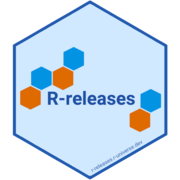
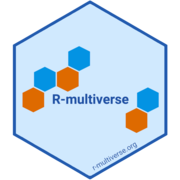
Deploying to gh-pages from @ r-multiverse/multitools@2e46e6c16b31bbbc39fb7d694dc6b85ea92b6163 🚀

Changed region(s): [[0.1111, 0.25, 0.9167, 0.75], [0.5, 0.7778, 0.8056, 0.9722]]

diff --git a/index.html b/index.html
@@ -73,39 +73,39 @@
 <div class="row">
   <main id="main" class="col-md-9"><div class="section level1">
 <div class="page-header">
-<img src="logo.png" class="logo" alt=""><h1 id="releases-tools-for-r-releases-">releases: tools for R-releases <a class="anchor" aria-label="anchor" href="#releases-tools-for-r-releases-"></a>
+<img src="logo.png" class="logo" alt=""><h1 id="multitools-tools-for-contributing-packages-to-r-multiverse-">multitools: tools for contributing packages to R-multiverse <a class="anchor" aria-label="anchor" href="#multitools-tools-for-contributing-packages-to-r-multiverse-"></a>
 </h1>
 </div>
 <!-- badges: start -->
 
-<p><a href="https://github.com/r-releases/help" class="external-link">R-releases</a> is a community-curated, maintainer-driven repository of R package releases based on <a href="https://r-universe.dev" class="external-link">R-universe</a>. The <code>releases</code> package has tools for maintainers of packages in <a href="https://github.com/r-releases/help" class="external-link">R-releases</a>.</p>
+<p><a href="https://r-multiverse.org" class="external-link">R-multiverse</a> is a community-curated, maintainer-driven repository of R package releases based on <a href="https://r-universe.dev" class="external-link">R-universe</a>. The <code>multitools</code> package has tools for maintainers of packages in <a href="https://github.com/r-multiverse/help" class="external-link">R-multiverse</a>.</p>
 </div>
 <div class="section level1">
 <h1 id="documentation">Documentation<a class="anchor" aria-label="anchor" href="#documentation"></a>
 </h1>
-<p>Please see <a href="https://r-releases.github.io/releases" class="external-link uri">https://r-releases.github.io/releases</a> for documentation, including a function reference.</p>
+<p>Please see <a href="https://r-multiverse.org/multitools" class="uri">https://r-multiverse.org/multitools</a> for documentation, including a function reference.</p>
 </div>
 <div class="section level1">
 <h1 id="code-of-conduct">Code of Conduct<a class="anchor" aria-label="anchor" href="#code-of-conduct"></a>
 </h1>
-<p>Please note that the <code>releases</code> project is released with a <a href="https://r-releases.github.io/conduct.html" class="external-link">Contributor Code of Conduct</a>. By contributing to this project, you agree to abide by its terms.</p>
+<p>Please note that the <code>multitools</code> project is released with a <a href="https://r-multiverse.org/conduct.html" class="external-link">Contributor Code of Conduct</a>. By contributing to this project, you agree to abide by its terms.</p>
 </div>
 <div class="section level1">
 <h1 id="help">Help<a class="anchor" aria-label="anchor" href="#help"></a>
 </h1>
-<p>Please post bug reports to <a href="https://github.com/r-releases/help/issues" class="external-link uri">https://github.com/r-releases/help/issues</a> and general questions to <a href="https://github.com/r-releases/help/discussions" class="external-link uri">https://github.com/r-releases/help/discussions</a>.</p>
+<p>Please post bug reports to <a href="https://github.com/r-multiverse/help/issues" class="external-link uri">https://github.com/r-multiverse/help/issues</a> and general questions to <a href="https://github.com/r-multiverse/help/discussions" class="external-link uri">https://github.com/r-multiverse/help/discussions</a>.</p>
 </div>
 <div class="section level1">
 <h1 id="installation">Installation<a class="anchor" aria-label="anchor" href="#installation"></a>
 </h1>
 <p>For the development version:</p>
 <div class="sourceCode" id="cb1"><pre class="downlit sourceCode r">
-<code class="sourceCode R"><span><span class="fu">remotes</span><span class="fu">::</span><span class="fu"><a href="https://remotes.r-lib.org/reference/install_github.html" class="external-link">install_github</a></span><span class="op">(</span><span class="st">"r-releases/releases"</span><span class="op">)</span></span></code></pre></div>
+<code class="sourceCode R"><span><span class="fu">remotes</span><span class="fu">::</span><span class="fu"><a href="https://remotes.r-lib.org/reference/install_github.html" class="external-link">install_github</a></span><span class="op">(</span><span class="st">"r-multiverse/multitools"</span><span class="op">)</span></span></code></pre></div>
 <p>For the latest release:</p>
 <div class="sourceCode" id="cb2"><pre class="downlit sourceCode r">
 <code class="sourceCode R"><span><span class="fu"><a href="https://rdrr.io/r/utils/install.packages.html" class="external-link">install.packages</a></span><span class="op">(</span></span>
-<span>  <span class="st">"releases"</span>,</span>
-<span>  repos <span class="op">=</span> <span class="fu"><a href="https://rdrr.io/r/base/c.html" class="external-link">c</a></span><span class="op">(</span><span class="st">"https://r-releases.r-universe.dev"</span>, <span class="fu"><a href="https://rdrr.io/r/base/options.html" class="external-link">getOption</a></span><span class="op">(</span><span class="st">"repos"</span><span class="op">)</span><span class="op">)</span></span>
+<span>  <span class="st">"multitools"</span>,</span>
+<span>  repos <span class="op">=</span> <span class="fu"><a href="https://rdrr.io/r/base/c.html" class="external-link">c</a></span><span class="op">(</span><span class="st">"https://r-multiverse.r-universe.dev"</span>, <span class="fu"><a href="https://rdrr.io/r/base/options.html" class="external-link">getOption</a></span><span class="op">(</span><span class="st">"repos"</span><span class="op">)</span><span class="op">)</span></span>
 <span><span class="op">)</span></span></code></pre></div>
 </div>
 <div class="section level1">
@@ -120,26 +120,25 @@
 <span><span class="co">#&gt; 1 pkg.a   1.0.0           2.0.0           1f9928593251410322823fefea8c… 8e7f9fe32c4…</span></span>
 <span><span class="co">#&gt; 2 pkg.b   3.0.0           3.0.0           7f608bde8f0e308aa8866d737dde… e59165f73b7…</span></span></code></pre></div>
 <p>Package <code>pkg.a</code> was flagged because the current version is lower than the highest version ever released. Package <code>pkg.b</code> was flagged because there are two different releases under version 3.0.0.</p>
-<p>To fix the version number of an R-releases package that you maintain, create a new GitHub/GitLab release whose version number in the <code>DESCRIPTION</code> file is higher than the one in the <code>version_highest</code> column in the output of <code>check_releases()</code>.</p>
+<p>To fix the version number of an R-multiverse package that you maintain, create a new GitHub/GitLab release whose version number in the <code>DESCRIPTION</code> file is higher than the one in the <code>version_highest</code> column in the output of <code><a href="reference/check_versions.html">check_versions()</a></code>.</p>
 </div>
 <div class="section level1">
 <h1 id="citation">Citation<a class="anchor" aria-label="anchor" href="#citation"></a>
 </h1>
-<div class="sourceCode" id="cb4"><pre class="sourceCode r"><code class="sourceCode r"><span id="cb4-1"><a href="#cb4-1" tabindex="-1"></a>o cite package ‘releases’ <span class="cf">in</span> publications use<span class="sc">:</span></span>
+<div class="sourceCode" id="cb4"><pre class="sourceCode r"><code class="sourceCode r"><span id="cb4-1"><a href="#cb4-1" tabindex="-1"></a>o cite package ‘multitools’ <span class="cf">in</span> publications use<span class="sc">:</span></span>
 <span id="cb4-2"><a href="#cb4-2" tabindex="-1"></a></span>
-<span id="cb4-3"><a href="#cb4-3" tabindex="-1"></a>  Landau WM, Gao C, Revilla Sancho <span class="fu">L</span> (<span class="dv">2024</span>). _releases<span class="sc">:</span> Tools <span class="cf">for</span> Package</span>
-<span id="cb4-4"><a href="#cb4-4" tabindex="-1"></a>  Releases_. R package version <span class="dv">0</span>.<span class="fl">0.1</span>,</span>
-<span id="cb4-5"><a href="#cb4-5" tabindex="-1"></a>  https<span class="sc">:</span><span class="er">//</span>github.com<span class="sc">/</span>r<span class="sc">-</span>releases<span class="sc">/</span>releases,</span>
-<span id="cb4-6"><a href="#cb4-6" tabindex="-1"></a>  <span class="sc">&lt;</span>https<span class="sc">:</span><span class="er">//</span>r<span class="sc">-</span>releases.github.io<span class="sc">/</span>releases<span class="sc">/</span><span class="er">&gt;</span>.</span>
-<span id="cb4-7"><a href="#cb4-7" tabindex="-1"></a></span>
-<span id="cb4-8"><a href="#cb4-8" tabindex="-1"></a>A BibTeX entry <span class="cf">for</span> LaTeX users is</span>
-<span id="cb4-9"><a href="#cb4-9" tabindex="-1"></a></span>
-<span id="cb4-10"><a href="#cb4-10" tabindex="-1"></a>  <span class="sc">@</span>Manual{,</span>
-<span id="cb4-11"><a href="#cb4-11" tabindex="-1"></a>    title <span class="ot">=</span> {releases<span class="sc">:</span> Tools <span class="cf">for</span> Package Releases},</span>
-<span id="cb4-12"><a href="#cb4-12" tabindex="-1"></a>    author <span class="ot">=</span> {William Michael Landau and Charlie Gao and Lluís {Revilla Sancho}},</span>
-<span id="cb4-13"><a href="#cb4-13" tabindex="-1"></a>    note <span class="ot">=</span> {R package version <span class="dv">0</span>.<span class="fl">0.1</span>, https<span class="sc">:</span><span class="er">//</span>github.com<span class="sc">/</span>r<span class="sc">-</span>releases<span class="sc">/</span>releases},</span>
-<span id="cb4-14"><a href="#cb4-14" tabindex="-1"></a>    url <span class="ot">=</span> {https<span class="sc">:</span><span class="er">//</span>r<span class="sc">-</span>releases.github.io<span class="sc">/</span>releases<span class="sc">/</span>},</span>
-<span id="cb4-15"><a href="#cb4-15" tabindex="-1"></a>  }</span></code></pre></div>
+<span id="cb4-3"><a href="#cb4-3" tabindex="-1"></a>  Landau WM, Gao C, Revilla Sancho <span class="fu">L</span> (<span class="dv">2024</span>). _multitools<span class="sc">:</span> Tools <span class="cf">for</span> Contributing Packages to R<span class="sc">-</span>multiverse_. R package version <span class="dv">0</span>.<span class="fl">1.0</span>,</span>
+<span id="cb4-4"><a href="#cb4-4" tabindex="-1"></a>  https<span class="sc">:</span><span class="er">//</span>github.com<span class="sc">/</span>r<span class="sc">-</span>multiverse<span class="sc">/</span>multitools,</span>
+<span id="cb4-5"><a href="#cb4-5" tabindex="-1"></a>  <span class="sc">&lt;</span>https<span class="sc">:</span><span class="er">//</span>r<span class="sc">-</span>multiverse.org<span class="sc">/</span>multitools<span class="sc">/</span><span class="er">&gt;</span>.</span>
+<span id="cb4-6"><a href="#cb4-6" tabindex="-1"></a></span>
+<span id="cb4-7"><a href="#cb4-7" tabindex="-1"></a>A BibTeX entry <span class="cf">for</span> LaTeX users is</span>
+<span id="cb4-8"><a href="#cb4-8" tabindex="-1"></a></span>
+<span id="cb4-9"><a href="#cb4-9" tabindex="-1"></a>  <span class="sc">@</span>Manual{,</span>
+<span id="cb4-10"><a href="#cb4-10" tabindex="-1"></a>    title <span class="ot">=</span> {multitools<span class="sc">:</span> Tools <span class="cf">for</span> Contributing Packages to R<span class="sc">-</span>multiverse},</span>
+<span id="cb4-11"><a href="#cb4-11" tabindex="-1"></a>    author <span class="ot">=</span> {William Michael Landau and Charlie Gao and Lluís {Revilla Sancho}},</span>
+<span id="cb4-12"><a href="#cb4-12" tabindex="-1"></a>    note <span class="ot">=</span> {R package version <span class="dv">0</span>.<span class="fl">0.1</span>, https<span class="sc">:</span><span class="er">//</span>github.com<span class="sc">/</span>r<span class="sc">-</span>multiverse<span class="sc">/</span>multitools},</span>
+<span id="cb4-13"><a href="#cb4-13" tabindex="-1"></a>    url <span class="ot">=</span> {https<span class="sc">:</span><span class="er">//</span>r<span class="sc">-</span>multiverse.org<span class="sc">/</span>multitools<span class="sc">/</span>},</span>
+<span id="cb4-14"><a href="#cb4-14" tabindex="-1"></a>  }</span></code></pre></div>
 </div>
 
   </main><aside class="col-md-3"><div class="links">
@@ -187,10 +186,10 @@
 <h2 data-toc-skip>Dev status</h2>
 <ul class="list-unstyled">
 <li><a href="https://www.repostatus.org/#active" class="external-link"><img src="https://www.repostatus.org/badges/latest/active.svg" alt="status"></a></li>
-<li><a href="https://github.com/r-releases/releases/actions?query=workflow%3Acheck" class="external-link"><img src="https://github.com/r-releases/releases/actions/workflows/check.yaml/badge.svg" alt="check"></a></li>
-<li><a href="https://app.codecov.io/gh/r-releases/releases" class="external-link"><img src="https://codecov.io/gh/r-releases/releases/branch/main/graph/badge.svg?token=3T5DlLwUVl" alt="codecov"></a></li>
-<li><a href="https://github.com/r-releases/releases/actions?query=workflow%3Alint" class="external-link"><img src="https://github.com/r-releases/releases/actions/workflows/lint.yaml/badge.svg" alt="lint"></a></li>
-<li><a href="https://github.com/r-releases/releases/actions?query=workflow%3Apkgdown" class="external-link"><img src="https://github.com/r-releases/releases/actions/workflows/pkgdown.yaml/badge.svg" alt="pkgdown"></a></li>
+<li><a href="https://github.com/r-multiverse/multitools/actions?query=workflow%3Acheck" class="external-link"><img src="https://github.com/r-multiverse/multitools/actions/workflows/check.yaml/badge.svg" alt="check"></a></li>
+<li><a href="https://app.codecov.io/gh/r-multiverse/multitools" class="external-link"><img src="https://codecov.io/gh/r-multiverse/multitools/branch/main/graph/badge.svg?token=3T5DlLwUVl" alt="codecov"></a></li>
+<li><a href="https://github.com/r-multiverse/multitools/actions?query=workflow%3Alint" class="external-link"><img src="https://github.com/r-multiverse/multitools/actions/workflows/lint.yaml/badge.svg" alt="lint"></a></li>
+<li><a href="https://github.com/r-multiverse/multitools/actions?query=workflow%3Apkgdown" class="external-link"><img src="https://github.com/r-multiverse/multitools/actions/workflows/pkgdown.yaml/badge.svg" alt="pkgdown"></a></li>
 </ul>
 </div>
 

diff --git a/reference/check_versions.html b/reference/check_versions.html
@@ -1,5 +1,5 @@
 <!DOCTYPE html>
-<!-- Generated by pkgdown: do not edit by hand --><html lang="en"><head><meta http-equiv="Content-Type" content="text/html; charset=UTF-8"><meta charset="utf-8"><meta http-equiv="X-UA-Compatible" content="IE=edge"><meta name="viewport" content="width=device-width, initial-scale=1, shrink-to-fit=no"><meta name="description" content="Check the etiquette of versions of packages in R-releases."><title>Check package version etiquette. — check_versions • multitools</title><!-- favicons --><link rel="icon" type="image/png" sizes="16x16" href="../favicon-16x16.png"><link rel="icon" type="image/png" sizes="32x32" href="../favicon-32x32.png"><link rel="apple-touch-icon" type="image/png" sizes="180x180" href="../apple-touch-icon.png"><link rel="apple-touch-icon" type="image/png" sizes="120x120" href="../apple-touch-icon-120x120.png"><link rel="apple-touch-icon" type="image/png" sizes="76x76" href="../apple-touch-icon-76x76.png"><link rel="apple-touch-icon" type="image/png" sizes="60x60" href="../apple-touch-icon-60x60.png"><script src="../deps/jquery-3.6.0/jquery-3.6.0.min.js"></script><meta name="viewport" content="width=device-width, initial-scale=1, shrink-to-fit=no"><link href="../deps/bootstrap-5.3.1/bootstrap.min.css" rel="stylesheet"><script src="../deps/bootstrap-5.3.1/bootstrap.bundle.min.js"></script><!-- Font Awesome icons --><link rel="stylesheet" href="https://cdnjs.cloudflare.com/ajax/libs/font-awesome/5.12.1/css/all.min.css" integrity="sha256-mmgLkCYLUQbXn0B1SRqzHar6dCnv9oZFPEC1g1cwlkk=" crossorigin="anonymous"><link rel="stylesheet" href="https://cdnjs.cloudflare.com/ajax/libs/font-awesome/5.12.1/css/v4-shims.min.css" integrity="sha256-wZjR52fzng1pJHwx4aV2AO3yyTOXrcDW7jBpJtTwVxw=" crossorigin="anonymous"><!-- bootstrap-toc --><script src="https://cdn.jsdelivr.net/gh/afeld/bootstrap-toc@v1.0.1/dist/bootstrap-toc.min.js" integrity="sha256-4veVQbu7//Lk5TSmc7YV48MxtMy98e26cf5MrgZYnwo=" crossorigin="anonymous"></script><!-- headroom.js --><script src="https://cdnjs.cloudflare.com/ajax/libs/headroom/0.11.0/headroom.min.js" integrity="sha256-AsUX4SJE1+yuDu5+mAVzJbuYNPHj/WroHuZ8Ir/CkE0=" crossorigin="anonymous"></script><script src="https://cdnjs.cloudflare.com/ajax/libs/headroom/0.11.0/jQuery.headroom.min.js" integrity="sha256-ZX/yNShbjqsohH1k95liqY9Gd8uOiE1S4vZc+9KQ1K4=" crossorigin="anonymous"></script><!-- clipboard.js --><script src="https://cdnjs.cloudflare.com/ajax/libs/clipboard.js/2.0.6/clipboard.min.js" integrity="sha256-inc5kl9MA1hkeYUt+EC3BhlIgyp/2jDIyBLS6k3UxPI=" crossorigin="anonymous"></script><!-- search --><script src="https://cdnjs.cloudflare.com/ajax/libs/fuse.js/6.4.6/fuse.js" integrity="sha512-zv6Ywkjyktsohkbp9bb45V6tEMoWhzFzXis+LrMehmJZZSys19Yxf1dopHx7WzIKxr5tK2dVcYmaCk2uqdjF4A==" crossorigin="anonymous"></script><script src="https://cdnjs.cloudflare.com/ajax/libs/autocomplete.js/0.38.0/autocomplete.jquery.min.js" integrity="sha512-GU9ayf+66Xx2TmpxqJpliWbT5PiGYxpaG8rfnBEk1LL8l1KGkRShhngwdXK1UgqhAzWpZHSiYPc09/NwDQIGyg==" crossorigin="anonymous"></script><script src="https://cdnjs.cloudflare.com/ajax/libs/mark.js/8.11.1/mark.min.js" integrity="sha512-5CYOlHXGh6QpOFA/TeTylKLWfB3ftPsde7AnmhuitiTX4K5SqCLBeKro6sPS8ilsz1Q4NRx3v8Ko2IBiszzdww==" crossorigin="anonymous"></script><!-- pkgdown --><script src="../pkgdown.js"></script><meta property="og:title" content="Check package version etiquette. — check_versions"><meta property="og:description" content="Check the etiquette of versions of packages in R-releases."><meta property="og:image" content="https://r-multiverse.org/multitools/logo.png"><!-- mathjax --><script src="https://cdnjs.cloudflare.com/ajax/libs/mathjax/2.7.5/MathJax.js" integrity="sha256-nvJJv9wWKEm88qvoQl9ekL2J+k/RWIsaSScxxlsrv8k=" crossorigin="anonymous"></script><script src="https://cdnjs.cloudflare.com/ajax/libs/mathjax/2.7.5/config/TeX-AMS-MML_HTMLorMML.js" integrity="sha256-84DKXVJXs0/F8OTMzX4UR909+jtl4G7SPypPavF+GfA=" crossorigin="anonymous"></script><!--[if lt IE 9]>
+<!-- Generated by pkgdown: do not edit by hand --><html lang="en"><head><meta http-equiv="Content-Type" content="text/html; charset=UTF-8"><meta charset="utf-8"><meta http-equiv="X-UA-Compatible" content="IE=edge"><meta name="viewport" content="width=device-width, initial-scale=1, shrink-to-fit=no"><meta name="description" content="Check the etiquette of versions of packages in R-multiverse."><title>Check package version etiquette. — check_versions • multitools</title><!-- favicons --><link rel="icon" type="image/png" sizes="16x16" href="../favicon-16x16.png"><link rel="icon" type="image/png" sizes="32x32" href="../favicon-32x32.png"><link rel="apple-touch-icon" type="image/png" sizes="180x180" href="../apple-touch-icon.png"><link rel="apple-touch-icon" type="image/png" sizes="120x120" href="../apple-touch-icon-120x120.png"><link rel="apple-touch-icon" type="image/png" sizes="76x76" href="../apple-touch-icon-76x76.png"><link rel="apple-touch-icon" type="image/png" sizes="60x60" href="../apple-touch-icon-60x60.png"><script src="../deps/jquery-3.6.0/jquery-3.6.0.min.js"></script><meta name="viewport" content="width=device-width, initial-scale=1, shrink-to-fit=no"><link href="../deps/bootstrap-5.3.1/bootstrap.min.css" rel="stylesheet"><script src="../deps/bootstrap-5.3.1/bootstrap.bundle.min.js"></script><!-- Font Awesome icons --><link rel="stylesheet" href="https://cdnjs.cloudflare.com/ajax/libs/font-awesome/5.12.1/css/all.min.css" integrity="sha256-mmgLkCYLUQbXn0B1SRqzHar6dCnv9oZFPEC1g1cwlkk=" crossorigin="anonymous"><link rel="stylesheet" href="https://cdnjs.cloudflare.com/ajax/libs/font-awesome/5.12.1/css/v4-shims.min.css" integrity="sha256-wZjR52fzng1pJHwx4aV2AO3yyTOXrcDW7jBpJtTwVxw=" crossorigin="anonymous"><!-- bootstrap-toc --><script src="https://cdn.jsdelivr.net/gh/afeld/bootstrap-toc@v1.0.1/dist/bootstrap-toc.min.js" integrity="sha256-4veVQbu7//Lk5TSmc7YV48MxtMy98e26cf5MrgZYnwo=" crossorigin="anonymous"></script><!-- headroom.js --><script src="https://cdnjs.cloudflare.com/ajax/libs/headroom/0.11.0/headroom.min.js" integrity="sha256-AsUX4SJE1+yuDu5+mAVzJbuYNPHj/WroHuZ8Ir/CkE0=" crossorigin="anonymous"></script><script src="https://cdnjs.cloudflare.com/ajax/libs/headroom/0.11.0/jQuery.headroom.min.js" integrity="sha256-ZX/yNShbjqsohH1k95liqY9Gd8uOiE1S4vZc+9KQ1K4=" crossorigin="anonymous"></script><!-- clipboard.js --><script src="https://cdnjs.cloudflare.com/ajax/libs/clipboard.js/2.0.6/clipboard.min.js" integrity="sha256-inc5kl9MA1hkeYUt+EC3BhlIgyp/2jDIyBLS6k3UxPI=" crossorigin="anonymous"></script><!-- search --><script src="https://cdnjs.cloudflare.com/ajax/libs/fuse.js/6.4.6/fuse.js" integrity="sha512-zv6Ywkjyktsohkbp9bb45V6tEMoWhzFzXis+LrMehmJZZSys19Yxf1dopHx7WzIKxr5tK2dVcYmaCk2uqdjF4A==" crossorigin="anonymous"></script><script src="https://cdnjs.cloudflare.com/ajax/libs/autocomplete.js/0.38.0/autocomplete.jquery.min.js" integrity="sha512-GU9ayf+66Xx2TmpxqJpliWbT5PiGYxpaG8rfnBEk1LL8l1KGkRShhngwdXK1UgqhAzWpZHSiYPc09/NwDQIGyg==" crossorigin="anonymous"></script><script src="https://cdnjs.cloudflare.com/ajax/libs/mark.js/8.11.1/mark.min.js" integrity="sha512-5CYOlHXGh6QpOFA/TeTylKLWfB3ftPsde7AnmhuitiTX4K5SqCLBeKro6sPS8ilsz1Q4NRx3v8Ko2IBiszzdww==" crossorigin="anonymous"></script><!-- pkgdown --><script src="../pkgdown.js"></script><meta property="og:title" content="Check package version etiquette. — check_versions"><meta property="og:description" content="Check the etiquette of versions of packages in R-multiverse."><meta property="og:image" content="https://r-multiverse.org/multitools/logo.png"><!-- mathjax --><script src="https://cdnjs.cloudflare.com/ajax/libs/mathjax/2.7.5/MathJax.js" integrity="sha256-nvJJv9wWKEm88qvoQl9ekL2J+k/RWIsaSScxxlsrv8k=" crossorigin="anonymous"></script><script src="https://cdnjs.cloudflare.com/ajax/libs/mathjax/2.7.5/config/TeX-AMS-MML_HTMLorMML.js" integrity="sha256-84DKXVJXs0/F8OTMzX4UR909+jtl4G7SPypPavF+GfA=" crossorigin="anonymous"></script><!--[if lt IE 9]>
 <script src="https://oss.maxcdn.com/html5shiv/3.7.3/html5shiv.min.js"></script>
 <script src="https://oss.maxcdn.com/respond/1.4.2/respond.min.js"></script>
 <![endif]--></head><body>
@@ -46,7 +46,7 @@
     </div>
 
     <div class="ref-description section level2">
-    <p>Check the etiquette of versions of packages in R-releases.</p>
+    <p>Check the etiquette of versions of packages in R-multiverse.</p>
     </div>
 
     <div class="section level2">
@@ -61,7 +61,7 @@
 <p>A <code>tibble</code> with one row per package and the following columns:</p><ul><li><p><code>package</code>: name of the package.</p></li>
 <li><p><code>version_current</code>: version number of the latest package release.</p></li>
 <li><p><code>version_highest</code>: highest version number across all the releases
-created since the package was registered with R-releases.</p></li>
+created since the package was registered with R-multiverse.</p></li>
 <li><p><code>hash_current</code>: the <code>RemoteSha</code> of the release corresponding to
 <code>version_current</code>.</p></li>
 <li><p><code>hash_highest</code>: the <code>RemoteSha</code> of the release corresponding to
@@ -73,7 +73,7 @@ created since the package was registered with R-releases.</p></li>
 package on every new release. <code>check_versions()</code>
 list the packages that have chosen to decrement the version number
 or keep it the same over the course of the release cycle.
-To fix the version number of an R-releases package that you
+To fix the version number of an R-multiverse package that you
 maintain, create a new GitHub/GitLab release whose version number
 in the <code>DESCRIPTION</code> file is higher than the one
 in the <code>version_highest</code> column in the output of <code>check_versions()</code>.</p>
@@ -81,7 +81,7 @@ in the <code>version_highest</code> column in the output of <code>check_versions
 
     <div class="section level2">
     <h2 id="ref-examples">Examples<a class="anchor" aria-label="anchor" href="#ref-examples"></a></h2>
-    <div class="sourceCode"><pre class="sourceCode r"><code><span class="r-in"><span>  <span class="kw">if</span> <span class="op">(</span><span class="fu"><a href="https://rdrr.io/r/base/identical.html" class="external-link">identical</a></span><span class="op">(</span><span class="fu"><a href="https://rdrr.io/r/base/Sys.getenv.html" class="external-link">Sys.getenv</a></span><span class="op">(</span><span class="st">"RELEASES_EXAMPLES"</span><span class="op">)</span>, <span class="st">"true"</span><span class="op">)</span><span class="op">)</span> <span class="op">{</span></span></span>
+    <div class="sourceCode"><pre class="sourceCode r"><code><span class="r-in"><span>  <span class="kw">if</span> <span class="op">(</span><span class="fu"><a href="https://rdrr.io/r/base/identical.html" class="external-link">identical</a></span><span class="op">(</span><span class="fu"><a href="https://rdrr.io/r/base/Sys.getenv.html" class="external-link">Sys.getenv</a></span><span class="op">(</span><span class="st">"MULTITOOLS_EXAMPLES"</span><span class="op">)</span>, <span class="st">"true"</span><span class="op">)</span><span class="op">)</span> <span class="op">{</span></span></span>
 <span class="r-in"><span>    <span class="fu">check_versions</span><span class="op">(</span><span class="op">)</span></span></span>
 <span class="r-in"><span>  <span class="op">}</span></span></span>
 </code></pre></div>

diff --git a/reference/figures/LICENSE.md b/reference/figures/LICENSE.md
@@ -1,8 +1,8 @@
-This license and copyright notice applies only to the logo images of the R-releases project.
+This license and copyright notice applies only to the logo images of the R-multiverse project.
 Please refer to other licenses and copyright notices for all other parts of the project,
 such as the code and documentation.
 
-R-releases logo images copyright (c) 2024 Eli Lilly and Company, Hibiki AI Limited
+R-multiverse logo images copyright (c) 2024 Eli Lilly and Company, Hibiki AI Limited
 
 Attribution-ShareAlike 4.0 International
 
